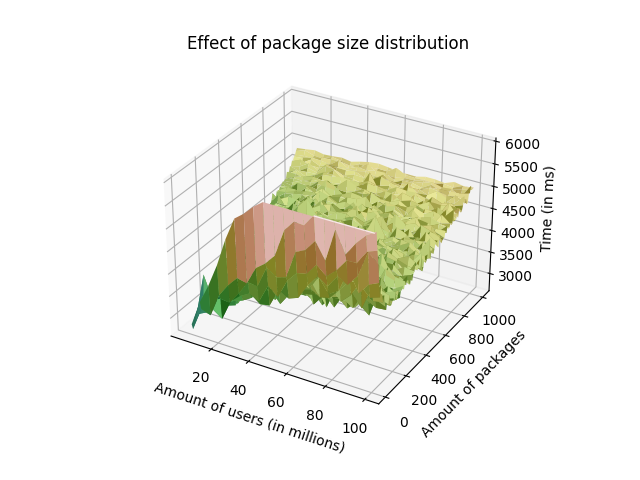
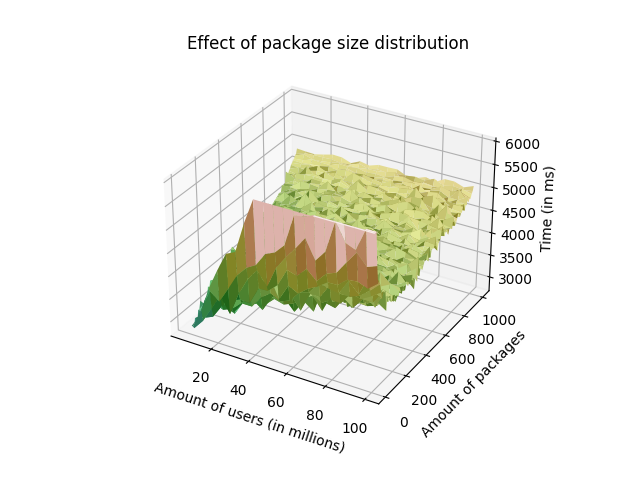
ran big test for  opti dist

diff --git a/database_size_vs_amount_of_packages_tester.py b/database_size_vs_amount_of_packages_tester.py
@@ -8,20 +8,20 @@ from matplotlib.colors import LightSource
 from dbfread import DBF
 
 # amount of users in millions
-a_min = 5
-a_max = 100
-a_inc_size = 5
+a_min = 50
+a_max = 1000
+a_inc_size = 50
 
 # amount of packages
-p_min = 10
-p_max = 1000
-p_inc_size = 10
+p_min = 50
+p_max = 2000
+p_inc_size = 50
 
 # amount of iteration for each combination
 i_tot = 30
 
 # range presentated in graph (to avoid extremely high/low times ruining graph)
-graph_cap = 6000
+graph_cap = 10000
 graph_min = 1000
 
 # Boundaries
@@ -102,6 +102,9 @@ for database_size in range(a_min*1000000, a_max*1000000+a_inc_size*1000000, a_in
     best_distribution = 0
     best_distribution_time = math.inf
     best_package_size = 0
+
+    prel_results = []
+    package_list = []
 
     for amount_of_packages in range(p_min, p_max+p_inc_size, p_inc_size):
         amount_of_nodes = database_size
@@ -272,16 +275,34 @@ for database_size in range(a_min*1000000, a_max*1000000+a_inc_size*1000000, a_in
             results.append(ms_count)
 
         average = sum(results)/len(results)
-        if average < best_distribution_time:
-            best_distribution = amount_of_packages
-            best_distribution_time = average
-            best_package_size = package_size
+        prel_results.append(average)
+        package_list.append(amount_of_packages)
+
+        # if average < best_distribution_time:
+        #     best_distribution = amount_of_packages
+        #     best_distribution_time = average
+        #     best_package_size = package_size
 
         if average > graph_cap:
             average = graph_cap
         y.append(amount_of_packages)
         x.append(database_size/1000000)
         z.append(average)
+
+    best_distribution_time = (prel_results[0] + prel_results[1]) / 2 
+    best_distribution = package_list[0]
+    
+    for i in range(1, len(prel_results)-2):
+        if (prel_results[i-1] + prel_results[i] + prel_results[i+1]) / 3 < best_distribution_time:
+            best_distribution_time = (prel_results[i-1] + prel_results[i] + prel_results[i+1]) / 3 
+            best_distribution = package_list[i]
+
+    if (prel_results[len(prel_results)-2] + prel_results[len(prel_results)-1])/ 2 < best_distribution_time:
+        best_distribution_time = (prel_results[i-1] + prel_results[i] + prel_results[i+1]) / 3 
+        best_distribution = package_list[i]
+
+    best_package_size = database_size / best_distribution
+
 
     bestX.append(best_distribution)
     bestY.append(database_size/1000000)
@@ -312,7 +333,7 @@ surf = ax.plot_surface(X, Y, Z, rstride=1, cstride=1,
 
 plt.title('Effect of package size distribution')
 plt.show()
-plt.savefig('plot.png')
+plt.savefig('pplot.png')
 
 
 X = np.reshape(x, (len(np.unique(x)), len(np.unique(y))))
@@ -343,7 +364,7 @@ surf = ax.plot_surface(Y, X, Z, rstride=1, alpha=0.6, cstride=1,
 
 plt.title('Optimal distributions')
 plt.show()
-plt.savefig('plot2.png')
+plt.savefig('pplot2.png')
 
 
 fig = plt.figure()
@@ -356,4 +377,4 @@ surf = ax.plot_surface(Y, X, Z, rstride=1, alpha=1, cstride=1,
                        facecolors=rgb, linewidth=0, antialiased=True, shade=False)
 plt.title('Effect of package size distribution')
 plt.show()
-plt.savefig('plot3.png')
+plt.savefig('pplot3.png')

diff --git a/network_case_tester.py b/network_case_tester.py
@@ -110,12 +110,16 @@ for i in range(6):
 
 
 premises = []
-premises.append(database_premis(1000000, 4))
-premises.append(database_premis(10000000, 36))
-premises.append(database_premis(50000000, 64))
-premises.append(database_premis(100000000, 90))
-premises.append(database_premis(500000000, 120))
-premises.append(database_premis(1000000000, 250))
+#5-100m
+#package_splits = [20, 60, 20, 40, 100, 230, 180, 110, 50, 180, 230, 220, 180, 130, 230, 140, 160, 160, 260, 260]
+#for i in range(5000000, 100000000, 5000000):
+#    premises.append(database_premis(i, package_splits.pop(0)))
+
+#100-1000m
+package_splits= [150,250,200,500,650,850,850,600,650,750,550,750,800,800,800,900,650,700,900]
+
+for i in range(100000000, 1000000000, 50000000):
+    premises.append(database_premis(i, package_splits.pop(0)))
 
 
 result_x = []
